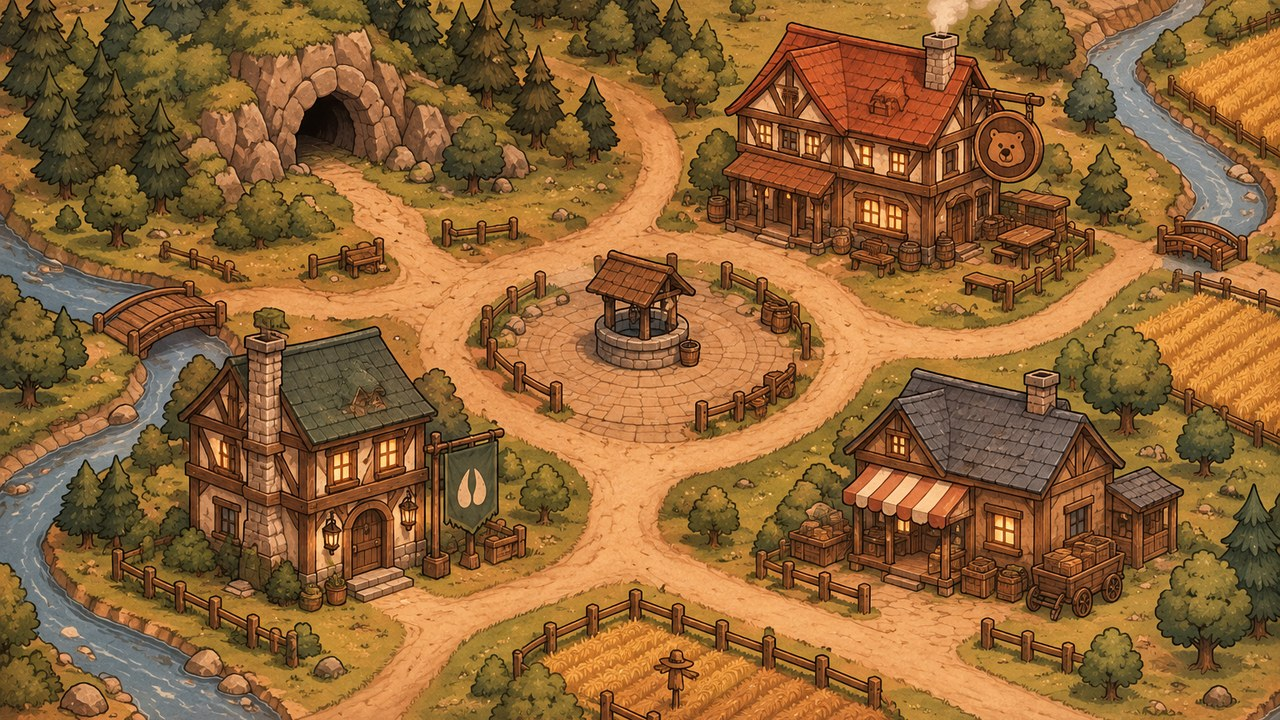
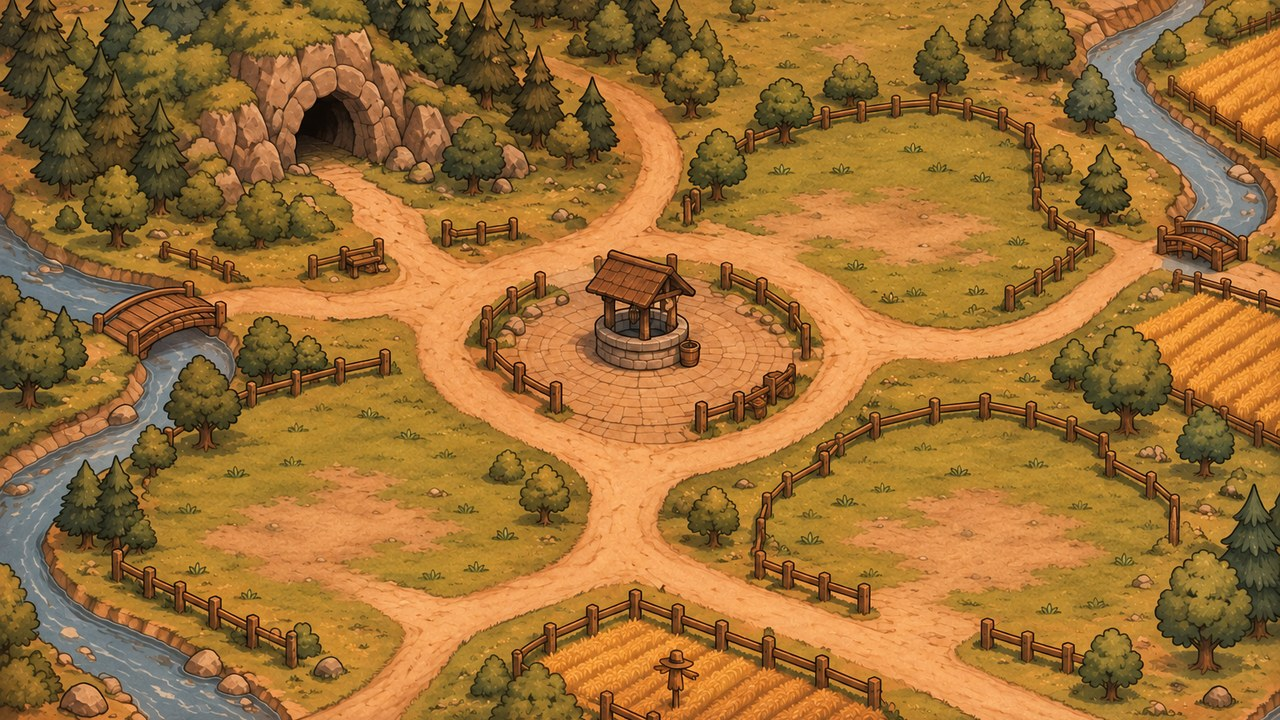
Layer the town map like SS: base map plus per-place building pieces, locked places dimmed
- base map with the three buildings removed (precision edit, aligned with the original); building pieces cut
  where the two maps differ, terrain places (plaza, forest) cut by their click polygon (art_pipeline mappiece)
- location_view draws object pieces under the click buttons; places the player cannot go to are dimmed
  (colour multiplied, not brightness subtracted, which turned them black) and the tooltip adds a short reason
- lock rules carry a short reason for the map tooltip next to Kai's monologue line
- autotest takes an evening map screenshot (shop closed and dimmed)

The base map is still the current small layout; it will be redrawn once the larger village is designed.

Claude-Session: https://claude.ai/code/session_01WFgBYsqnPjwxzhWx9BLhU6

diff --git a/mosshill/tools/art_pipeline.py b/mosshill/tools/art_pipeline.py
@@ -543,6 +543,47 @@ def do_scene(raw):
                 print("      비율: 가구 위로 보이는 몸 %.0fcm (실제라면 %.0fcm) = %.2f배%s" % (seen, want, ratio, warn))
 
 
+## ---------------------------------------------------------------- 지도 건물 조각
+## 원작처럼 지도를 겹으로: 바닥 지도(건물을 지운 그림) + 장소마다 건물 조각. 본편에서 장소가 늘면 조각만 더하고,
+## 잠긴 곳은 조각만 흐리게, 이야기에 따라 건물 그림을 바꿀 수도 있다.
+## RAW/map_full.png  건물까지 있는 원래 지도      RAW/map.png  건물만 지운 바닥 지도 (bg 단계가 bg_map_* 로 만듦)
+## 조각 = 두 그림이 확실히 다른 곳(건물·그 그림자) 중 그 장소 클릭 다각형 주변 (MAP_BUILDINGS). 건물을 지우지 않은 곳(광장·숲)은 다각형 모양.
+## → images/objects/piece_map_<물건>_<day|night>.png (화면 크기, 조각만 불투명)
+def fill_holes(mask):
+    """닫힌 구멍 메우기 (바깥과 이어지지 않은 빈 곳)"""
+    im = mask.copy()
+    ImageDraw.floodfill(im, (0, 0), 128)
+    return im.point(lambda v: 0 if v == 128 else 255)
+
+
+MAP_BUILDINGS = ("guild", "tavern", "shop")    # 바닥 지도에서 지운 건물 (나머지 광장·숲은 바닥 지도에 그대로 있다)
+
+
+def do_mappiece(raw):
+    with open(os.path.join(ROOT, "tools", "art_objects.json"), encoding="utf-8") as f:
+        polys = json.load(f)["map"]
+    full, base = screen_of(os.path.join(raw, "map_full.png")), screen_of(os.path.join(raw, "map.png"))
+    diff = ImageChops.difference(full, base).filter(ImageFilter.GaussianBlur(1.5))
+    diff = Image.fromarray(((np.asarray(diff).max(axis=2) > 38) * 255).astype(np.uint8))
+    out = os.path.join(IMG, "objects")
+    for oid, poly in polys.items():
+        area = Image.new("L", SCREEN, 0)
+        ImageDraw.Draw(area).polygon([tuple(p) for p in poly], fill=255)
+        roi = area.filter(ImageFilter.MaxFilter(91))                     # 건물은 클릭 다각형보다 조금 크다 (굴뚝·간판)
+        m = ImageChops.multiply(diff, roi)
+        m = m.filter(ImageFilter.MaxFilter(9)).filter(ImageFilter.MinFilter(9))      # 틈 메우기
+        m = fill_holes(m).filter(ImageFilter.MinFilter(5)).filter(ImageFilter.MaxFilter(5))   # 구멍 메우고 잡티 지우기
+        kind = "건물"
+        if oid not in MAP_BUILDINGS:
+            m, kind = area, "다각형"                                       # 바닥 지도에도 남아 있는 곳 (광장·숲)
+        alpha = m.filter(ImageFilter.GaussianBlur(1.2))
+        for tod, img in (("day", full), ("night", night_filter(full))):
+            piece = img.convert("RGBA")
+            piece.putalpha(alpha)
+            piece.save(os.path.join(out, "piece_map_%s_%s.png" % (oid, tod)), optimize=True)
+        print("mappiece %-7s %s %s" % (oid, kind, alpha.point(lambda v: 255 if v > 128 else 0).getbbox()))
+
+
 ## ---------------------------------------------------------------- 지도 장식 (구름·갈매기)
 ## RAW/map_fx_sheet.png  위 절반: 구름 3개 (큰 것부터), 아래 절반: 갈매기 날갯짓 4단계 (머리가 오른쪽)
 ## → images/map_fx/cloud_<n>.png + cloud_<n>_shadow.png (땅에 드리울 그림자), gull_<n>.png (부리 끝을 맞춰 정렬)
@@ -605,7 +646,7 @@ def do_mapfx(raw):
 
 
 STEPS = {"bg": do_bg, "sprite": do_sprite, "face": do_face, "enemy": do_enemy,
-         "icon": do_icon, "object": do_object, "scene": do_scene, "mapfx": do_mapfx}
+         "icon": do_icon, "object": do_object, "scene": do_scene, "mapfx": do_mapfx, "mappiece": do_mappiece}
 
 if __name__ == "__main__":
     if len(sys.argv) < 3:
